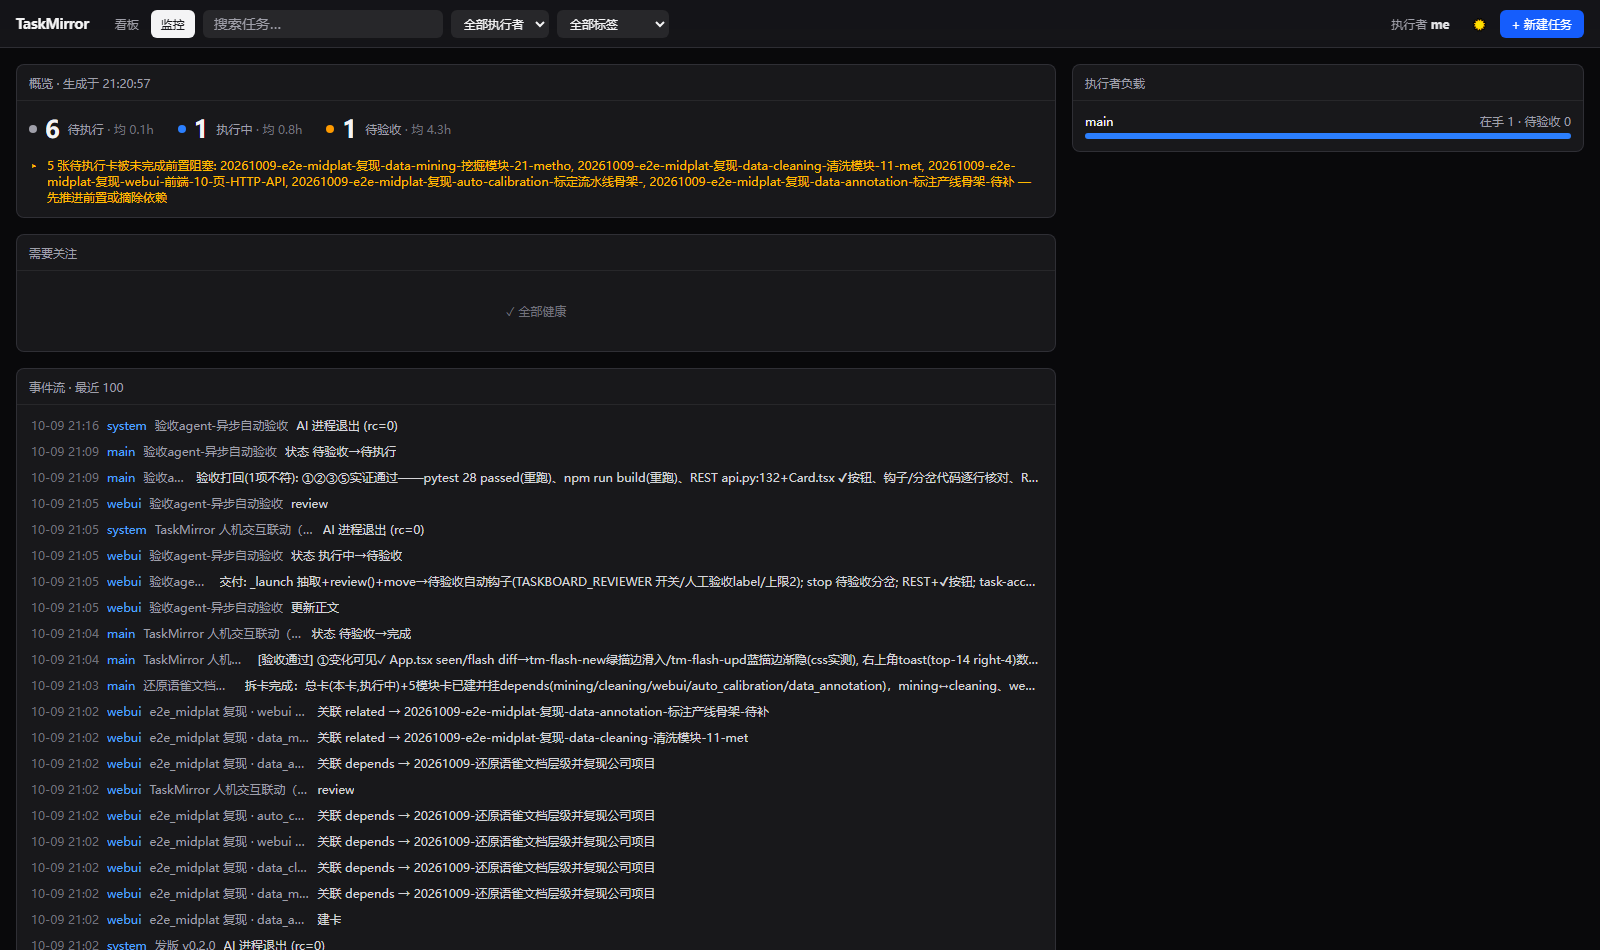
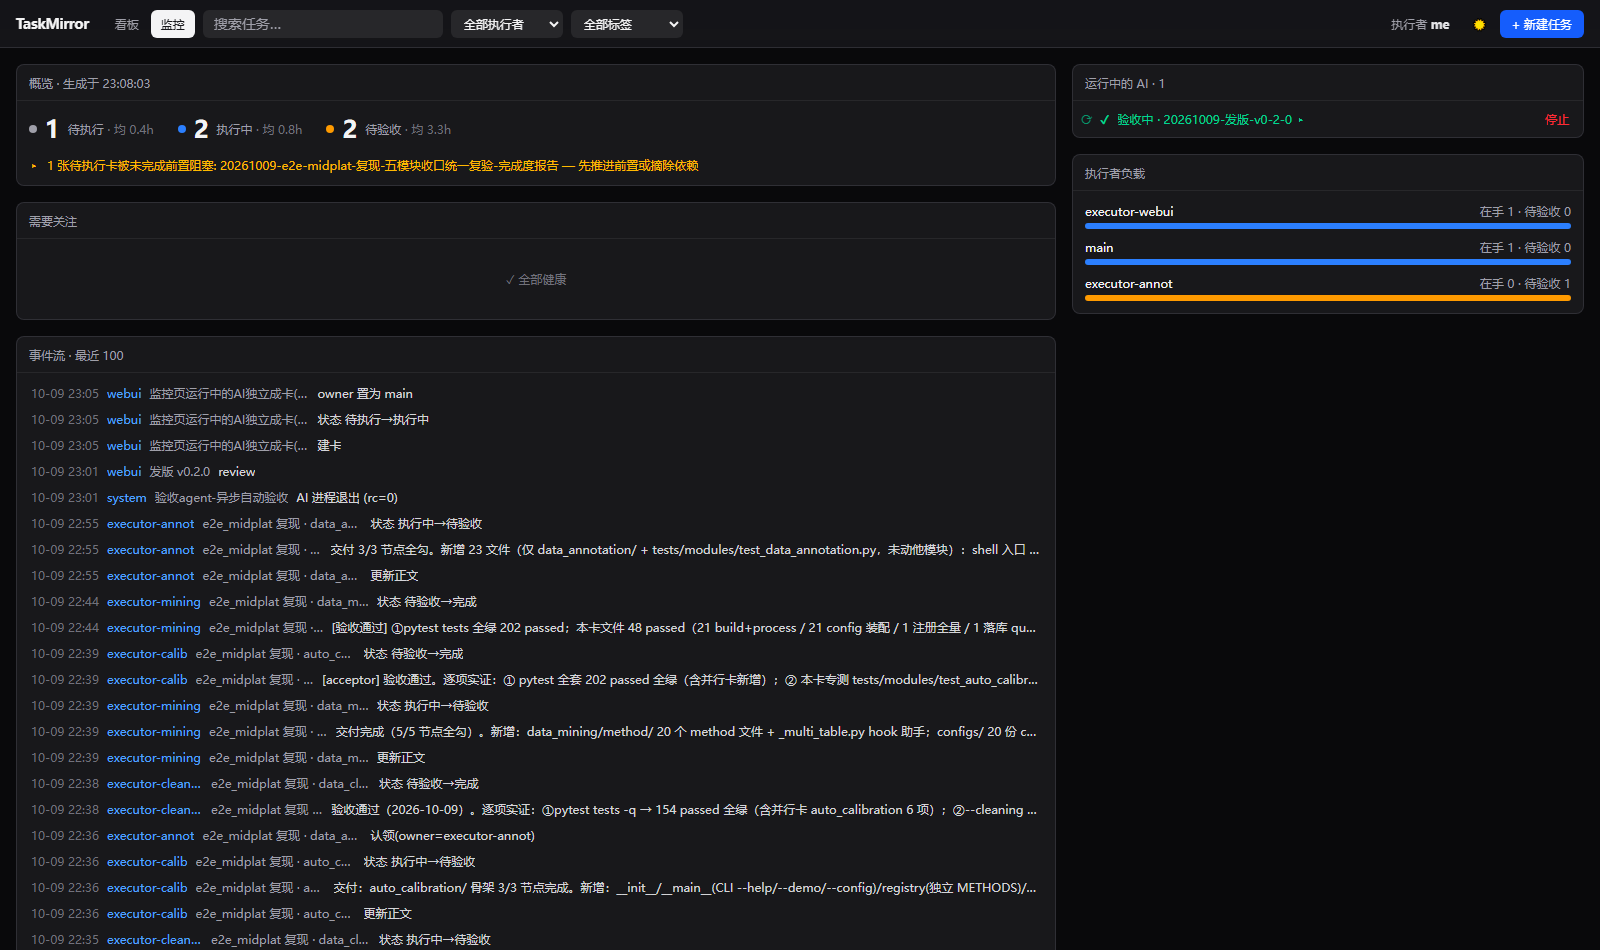
feat: 监控页「运行中的 AI」独立常驻卡(executor/acceptor 徽标+过程流+停止), 负载卡只留条形图

diff --git a/frontend/src/components/Monitor.tsx b/frontend/src/components/Monitor.tsx
@@ -9,7 +9,7 @@ const H2 = "px-3 h-9 flex items-center font-medium text-xs text-zinc-500 dark:te
 export default function Monitor({ rev, onOpen }: { rev: number; onOpen: (id: string) => void }) {
   const [ins, setIns] = useState<Insights | null>(null)
   const [evs, setEvs] = useState<RecentEvent[]>([])
-  const [disp, setDisp] = useState<{ task_id: string; pid: number; started: string }[]>([])
+  const [disp, setDisp] = useState<{ task_id: string; pid: number; started: string; agent: string }[]>([])
   const [openAct, setOpenAct] = useState<string | null>(null) // 展开过程流的卡
   const [acts, setActs] = useState<{ kind: string; text: string; ts: string }[]>([])
 
@@ -87,55 +87,69 @@ export default function Monitor({ rev, onOpen }: { rev: number; onOpen: (id: str
         </div>
       </div>
 
-      {/* 执行者负载 */}
-      <div className={`${CARD} h-fit shrink-0`}>
-        <div className={H2}>执行者负载</div>
-        {disp.length > 0 && (
-          <ul className="px-3 pt-2 space-y-1">
-            {disp.map(d => (
-              <li key={d.task_id}>
-                <div className="flex items-center gap-2 text-xs text-emerald-600 dark:text-emerald-400">
-                  <span className="animate-pulse">⟳</span>
-                  <button onClick={() => setOpenAct(openAct === d.task_id ? null : d.task_id)}
-                    className="truncate hover:underline flex-1 text-left" title="点开看 AI 正在做什么">
-                    AI 执行中 · {d.task_id} {openAct === d.task_id ? "▾" : "▸"}
-                  </button>
-                  <button
-                    onClick={() => api.stopDispatch(d.task_id).catch(() => {})}
-                    className="shrink-0 h-5 px-1.5 rounded text-red-500 hover:bg-red-500/10"
-                    title="强停该 AI 进程"
-                  >
-                    停止
-                  </button>
-                </div>
-                {openAct === d.task_id && (
-                  <ActivityStream acts={acts} />
-                )}
-              </li>
-            ))}
+      {/* 运行中的 AI + 执行者负载 */}
+      <div className="flex flex-col gap-4 shrink-0">
+        <div className={CARD}>
+          <div className={H2}>运行中的 AI · {disp.length}</div>
+          {disp.length > 0 ? (
+            <ul className="p-2 space-y-1">
+              {disp.map(d => (
+                <li key={d.task_id}>
+                  <div className="flex items-center gap-2 text-xs text-emerald-600 dark:text-emerald-400">
+                    <span className="animate-pulse" title={`pid ${d.pid} · ${d.started}`}>⟳</span>
+                    <span className="shrink-0" title={d.agent === "acceptor" ? "验收 agent" : "执行 agent"}>
+                      {d.agent === "acceptor" ? "✔" : "⚡"}
+                    </span>
+                    <button onClick={() => setOpenAct(openAct === d.task_id ? null : d.task_id)}
+                      className="truncate hover:underline flex-1 text-left" title="点开看 AI 正在做什么">
+                      {d.agent === "acceptor" ? "验收中" : "执行中"} · {d.task_id} {openAct === d.task_id ? "▾" : "▸"}
+                    </button>
+                    <button
+                      onClick={() => api.stopDispatch(d.task_id).catch(() => {})}
+                      className="shrink-0 h-5 px-1.5 rounded text-red-500 hover:bg-red-500/10"
+                      title="强停该 AI 进程"
+                    >
+                      停止
+                    </button>
+                  </div>
+                  {openAct === d.task_id && (
+                    <ActivityStream acts={acts} />
+                  )}
+                </li>
+              ))}
+            </ul>
+          ) : (
+            <div className="px-3 py-4 text-xs text-zinc-500 dark:text-zinc-400">
+              当前无 AI 进程——卡面 <span className="text-blue-600 dark:text-blue-400">⚡派发</span> 执行 /{" "}
+              <span className="text-emerald-600 dark:text-emerald-400">✔验收</span> 核验，过程流在此实时可看
+            </div>
+          )}
+        </div>
+
+        <div className={CARD}>
+          <div className={H2}>执行者负载</div>
+          <ul className="p-3 space-y-2.5">
+            {ins?.load.map(d => {
+              const total = d.active + d.review
+              const pct = total ? (d.active / total) * 100 : 0
+              return (
+                <li key={d.owner}>
+                  <div className="flex justify-between text-xs mb-1">
+                    <span className="font-medium">{d.owner}</span>
+                    <span className="text-zinc-500 dark:text-zinc-400">
+                      在手 {d.active} · 待验收 {d.review}
+                    </span>
+                  </div>
+                  <div className="h-1.5 rounded-full bg-zinc-100 dark:bg-zinc-800 overflow-hidden flex">
+                    <div className="bg-blue-500" style={{ width: `${pct}%` }} />
+                    <div className="bg-amber-500" style={{ width: `${100 - pct}%` }} />
+                  </div>
+                </li>
+              )
+            })}
+            {ins && !ins.load.length && <li className="text-xs text-zinc-500 py-4 text-center">暂无在办</li>}
           </ul>
-        )}
-        <ul className="p-3 space-y-2.5">
-          {ins?.load.map(d => {
-            const total = d.active + d.review
-            const pct = total ? (d.active / total) * 100 : 0
-            return (
-              <li key={d.owner}>
-                <div className="flex justify-between text-xs mb-1">
-                  <span className="font-medium">{d.owner}</span>
-                  <span className="text-zinc-500 dark:text-zinc-400">
-                    在手 {d.active} · 待验收 {d.review}
-                  </span>
-                </div>
-                <div className="h-1.5 rounded-full bg-zinc-100 dark:bg-zinc-800 overflow-hidden flex">
-                  <div className="bg-blue-500" style={{ width: `${pct}%` }} />
-                  <div className="bg-amber-500" style={{ width: `${100 - pct}%` }} />
-                </div>
-              </li>
-            )
-          })}
-          {ins && !ins.load.length && <li className="text-xs text-zinc-500 py-4 text-center">暂无在办</li>}
-        </ul>
+        </div>
       </div>
     </div>
   )

diff --git a/frontend/src/api.ts b/frontend/src/api.ts
@@ -27,7 +27,7 @@ export const api = {
   recent: (limit = 100) => req<{ events: RecentEvent[] }>("GET", `/api/events/recent?limit=${limit}`),
   dispatch: (id: string) => req<{ ok: boolean; pid: number }>("POST", `/api/tasks/${encodeURIComponent(id)}/dispatch`),
   review: (id: string) => req<{ ok: boolean; pid: number }>("POST", `/api/tasks/${encodeURIComponent(id)}/review`),
-  dispatches: () => req<{ running: { task_id: string; pid: number; started: string }[] }>("GET", "/api/dispatches"),
+  dispatches: () => req<{ running: { task_id: string; pid: number; started: string; agent: string }[] }>("GET", "/api/dispatches"),
   stopDispatch: (id: string) => req<{ ok: boolean }>("POST", `/api/dispatches/${encodeURIComponent(id)}/stop`),
   activity: (id: string) =>
     req<{ activities: { kind: string; text: string; ts: string }[]; running: boolean }>(

diff --git a/backend/app/service.py b/backend/app/service.py
@@ -712,8 +712,15 @@ def stop_dispatch(cid: str, actor: str = "webui") -> dict:
 
 def running() -> list[dict]:
     _reap()
-    return [{"task_id": k, "pid": v["pid"], "started": v["started"]}
-            for k, v in DISPATCHES.items()]
+    out = []
+    for k, v in DISPATCHES.items():
+        # agent 类型从最近 dispatched/review 事件派生(不加表列, 重启收养后同样成立); 并发≤4 小查询
+        ev = db.conn().execute(
+            "SELECT event FROM task_events WHERE task_id=? AND event IN('dispatched','review') "
+            "ORDER BY id DESC LIMIT 1", (k,)).fetchone()
+        out.append({"task_id": k, "pid": v["pid"], "started": v["started"],
+                    "agent": "acceptor" if ev and ev["event"] == "review" else "executor"})
+    return out
 
 
 def _parse_activity(lines: list[str]) -> list[dict]:

diff --git a/backend/tests/test_dispatch.py b/backend/tests/test_dispatch.py
@@ -46,8 +46,9 @@ def test_dispatch_flow(home, monkeypatch):
 
         # 同卡重复派发 → 409
         assert c.post(f"/api/tasks/{tid}/dispatch").status_code == 409
-        # 列表可见
-        assert c.get("/api/dispatches").json()["running"][0]["task_id"] == tid
+        # 列表可见, agent 从最近事件派生(派发=executor / 验收=acceptor)
+        row = c.get("/api/dispatches").json()["running"][0]
+        assert row["task_id"] == tid and row["agent"] == "executor"
 
         # 假进程退出 → 任意请求触发 reap → 列表空, stop 404, 可再派
         procs[0].rc = 0
